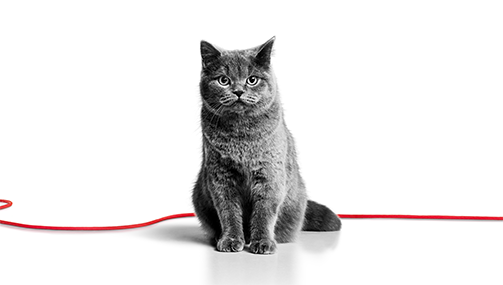
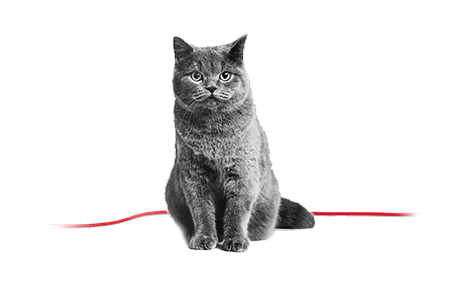
fix: landing video and level images

Changed region(s): [[0.0, 0.1123, 1.0, 0.9825], [0.0, 0.7018, 0.0297, 0.7298]]

diff --git a/client/src/pages/fk-landing.vue b/client/src/pages/fk-landing.vue
@@ -161,7 +161,7 @@ export default {
 
   .fk-bg {
     position: absolute;
-    
+
     .fk-bg__floor, .fk-bg__front {
       bottom: 0;
     }
@@ -195,11 +195,6 @@ export default {
     position: relative;
     width: 100%;
     padding-bottom: 65%;
-
-    @include rwd-max(xs) {
-      transform: scale(1.25);
-      transform-origin: center;
-    }
   }
 
   &__pic-wrapper {
@@ -217,7 +212,7 @@ export default {
     z-index: 1;
     left: 50%;
     bottom: 0;
-    width: 100%;
+    width: 120%;
     transform: translateX(-50%);
   }
 
